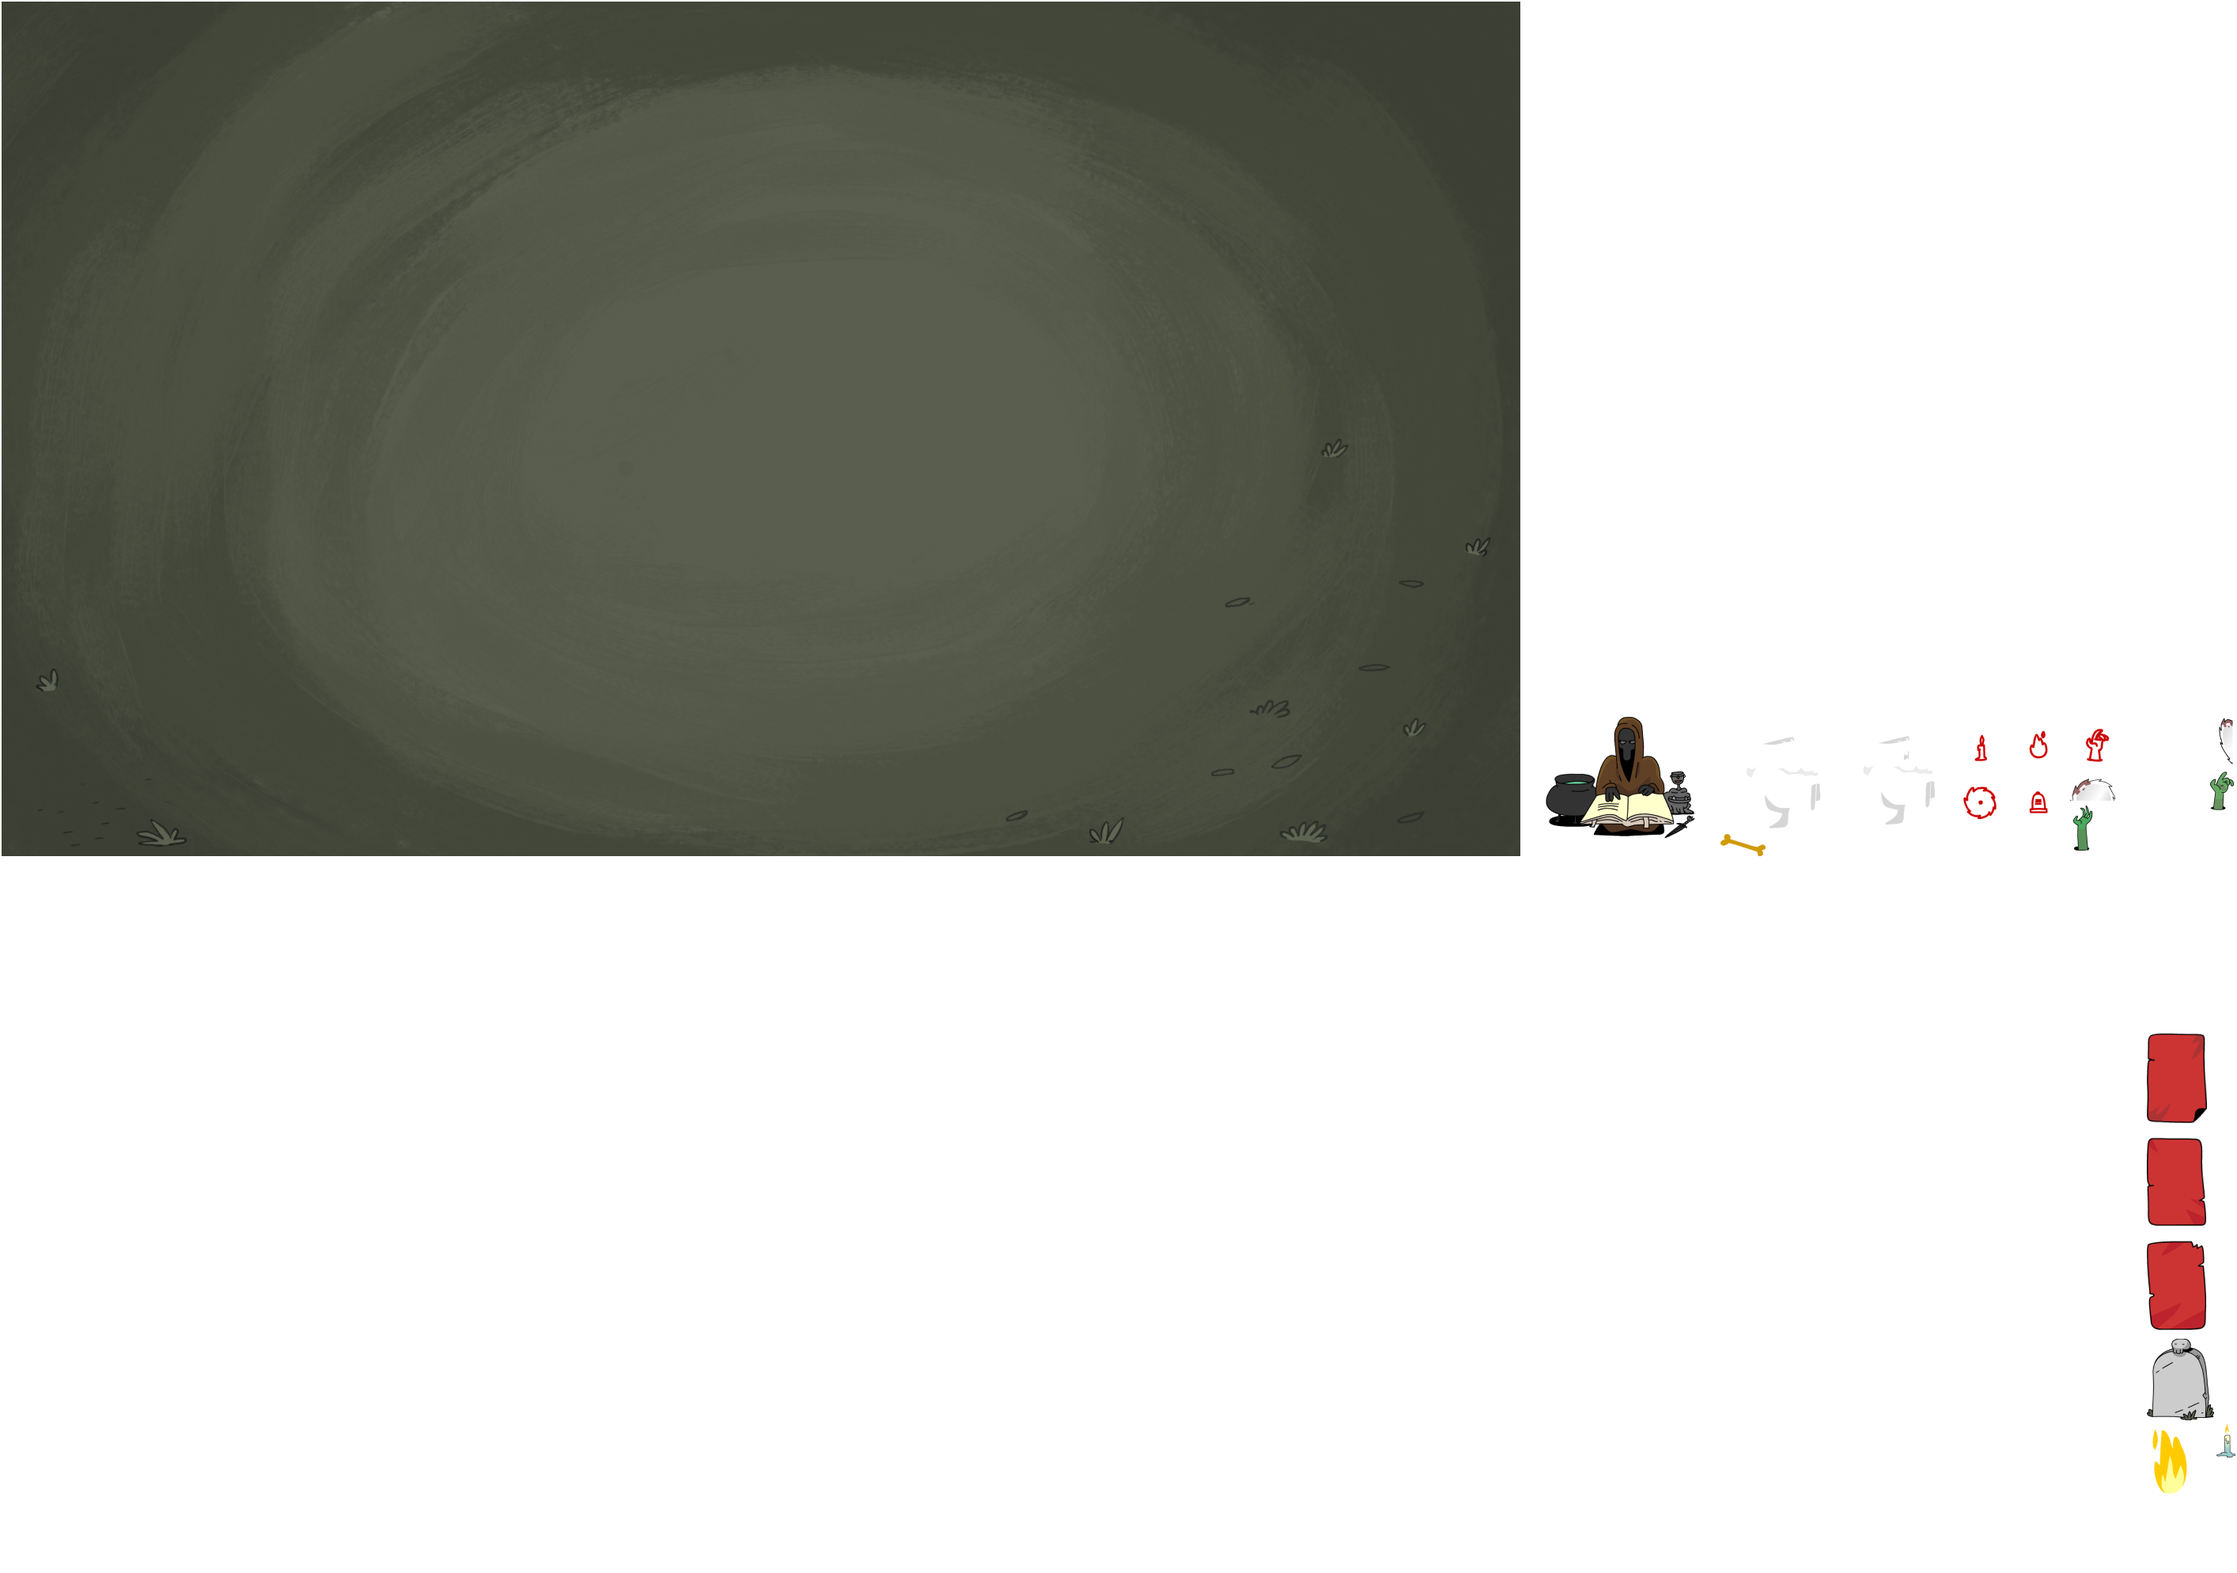
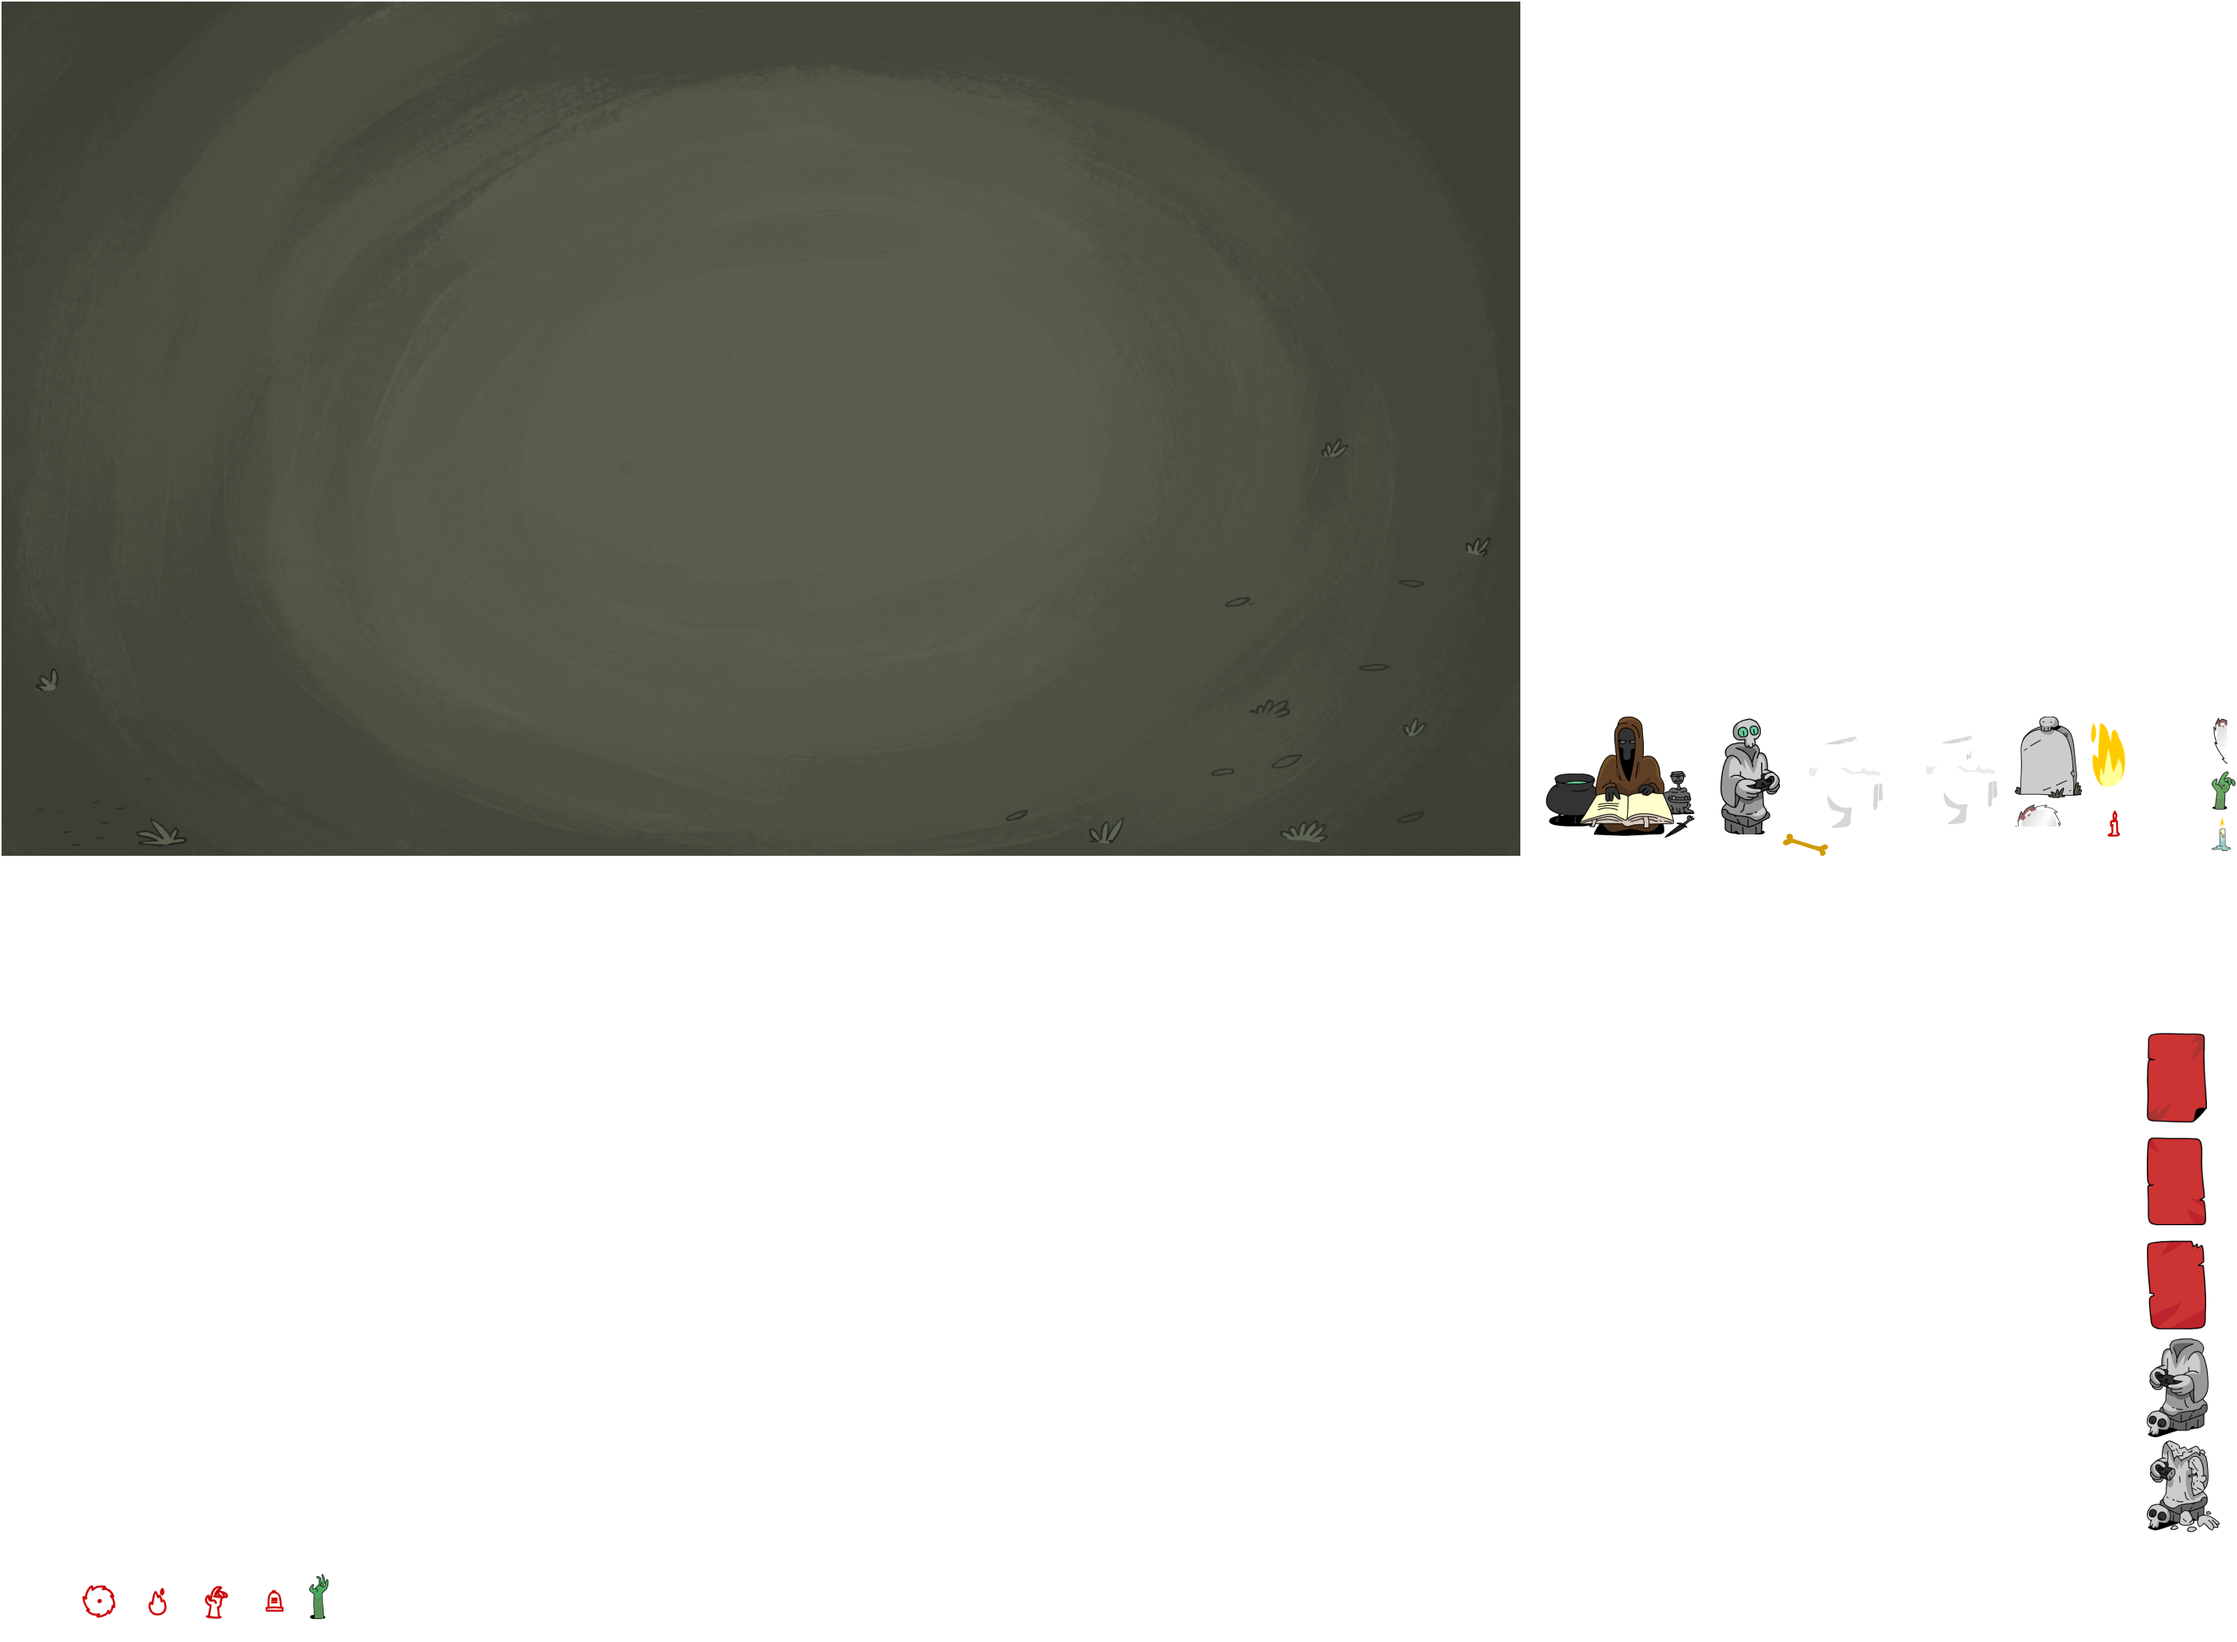
mvp

Changed region(s): [[0.0, 0.4366, 1.0, 0.5614], [0.9335, 0.6237, 1.0, 0.9668], [0.0934, 0.9668, 0.1556, 0.998]]

diff --git a/src/game/scenes/Stage.ts b/src/game/scenes/Stage.ts
@@ -1,4 +1,4 @@
-import { Scene } from 'excalibur';
+import { Scene, vec } from 'excalibur';
 import Circular from '@/game/components/constructions/circular';
 import HellishHugs from '@/game/components/constructions/hellish-hugs';
 import ManaCandles from '@/game/components/constructions/mana-candles';
@@ -10,6 +10,8 @@ import Caster from '@/game/components/caster';
 import ZAxisSortSystem from '@/game/partials/z-axis-sort-system';
 import Fireballs from '@/game/components/constructions/fireballs';
 import SpawnSystem from '@/game/spawn-system';
+import Statue from '@/game/components/statue';
+import { Assets } from '@/game/resources/assets';
 
 export default class Stage extends Scene {
 	private spawnSystem!: SpawnSystem;
@@ -24,6 +26,7 @@ export default class Stage extends Scene {
 	onActivate() {
 		this.addBg();
 		this.addCaster();
+		this.addStatues();
 	}
 
 	placeFireballs() {
@@ -58,5 +61,25 @@ export default class Stage extends Scene {
 		this.emit(STAGE_EVENTS.CANCEL_CONSTRUCTION);
 
 		this.add(construction);
+	}
+
+	private addStatues() {
+		const positions = [
+			vec(-120, 70),
+			vec(120, 70),
+			vec(0, -120),
+		];
+
+		const assets = [
+			Assets.STATUES__1,
+			Assets.STATUES__3,
+			Assets.STATUES__2,
+		];
+
+		for (let [index, position] of positions.entries()) {
+			this.add(new Statue({
+				pos: position,
+			}, assets[index]));
+		}
 	}
 }

diff --git a/src/game/components/character.ts b/src/game/components/character.ts
@@ -7,8 +7,10 @@ import { Assets } from '@/game/resources/assets';
 import { enemyGroup } from '@/game/collisions';
 import { easeInOutSine, random } from '@/game/utils';
 import { TAGS } from '@/enums';
+import type Stage from '@/game/scenes/Stage';
 
 export default class Character extends Actor {
+	declare scene: Stage;
 	protected live!: number;
 	private material!: Material;
 	private abortController!: AbortController;
@@ -32,7 +34,7 @@ export default class Character extends Actor {
 		this.initGraphics();
 		this.registerEvents();
 
-		this.actions.moveTo(Vector.Zero, 50 + random.floating(0, 1) * 50);
+		this.actions.moveTo((this.getTarget()).pos, 50 + random.floating(0, 1) * 50);
 	}
 
 	onPostUpdate(engine: Engine, delta: number) {
@@ -67,6 +69,16 @@ export default class Character extends Actor {
 		this.graphics.use(sprite, {
 			anchor: sprite.origin || Vector.Zero,
 		});
+	}
+
+	private getTarget() {
+		const stageTargets = this.scene.world.queryTags([TAGS.TARGET]).entities;
+
+		const sorted = stageTargets.sort((a, b) => {
+			return (<Actor>a).pos.distance(this.pos) < (<Actor>b).pos.distance(this.pos) ? -1 : 1;
+		});
+
+		return <Actor>sorted[0];
 	}
 
 	private die() {

diff --git a/src/game/components/statue.ts b/src/game/components/statue.ts
@@ -1,0 +1,25 @@
+import type { ActorArgs } from 'excalibur';
+import { Actor, Sprite, Vector } from 'excalibur';
+import res from '@/res';
+import { Assets } from '@/game/resources/assets';
+import { TAGS } from '@/enums';
+
+export default class Statue extends Actor {
+	constructor(props: ActorArgs, private assetName: Assets) {
+		super(props);
+	}
+
+	onInitialize() {
+		this.addTag(TAGS.Z_AXIS_SORT);
+		this.addTag(TAGS.TARGET);
+		this.initGraphics();
+	}
+
+	private initGraphics() {
+		const sprite = <Sprite>res.assets.getFrameSprite(this.assetName);
+
+		this.graphics.use(sprite, {
+			anchor: sprite.origin || Vector.Zero,
+		});
+	}
+}

diff --git a/src/game/components/construction.ts b/src/game/components/construction.ts
@@ -77,7 +77,7 @@ export default abstract class Construction extends Actor {
 		const centerOffset = Math.max(Math.abs(x), Math.abs(y));
 		const step = 0.15;
 
-		const minScale = 400 / this.formSprite.width;
+		const minScale = 500 / this.formSprite.width;
 
 		let scale = Math.max(Math.min(centerOffset * 2 / this.formSprite.width, 1), minScale);
 		scale = Math.floor(scale / step) * step;

diff --git a/src/game/resources/assets.ts b/src/game/resources/assets.ts
@@ -1,5 +1,8 @@
 export enum Assets {
 	'TOMBSTONES__1' = 'tombstones/1',
+	'STATUES__3' = 'statues/3',
+	'STATUES__2' = 'statues/2',
+	'STATUES__1' = 'statues/1',
 	'SAW__VERT' = 'saw/vert',
 	'SAW__HOR' = 'saw/hor',
 	'HANDS__2' = 'hands/2',

diff --git a/src/game/components/objects/tombstone.ts b/src/game/components/objects/tombstone.ts
@@ -16,6 +16,7 @@ export default class Tombstone extends Actor {
 	onInitialize() {
 		this.collider.useCircleCollider(30);
 		this.addTag(TAGS.Z_AXIS_SORT);
+		this.addTag(TAGS.TARGET);
 
 		this.initGraphics();
 	}

diff --git a/src/enums.ts b/src/enums.ts
@@ -28,5 +28,6 @@ export enum Z_INDEX {
 
 export enum TAGS {
 	MOB = 'mob',
-	Z_AXIS_SORT = 'zAxisSort'
+	Z_AXIS_SORT = 'zAxisSort',
+	TARGET = 'target',
 }
